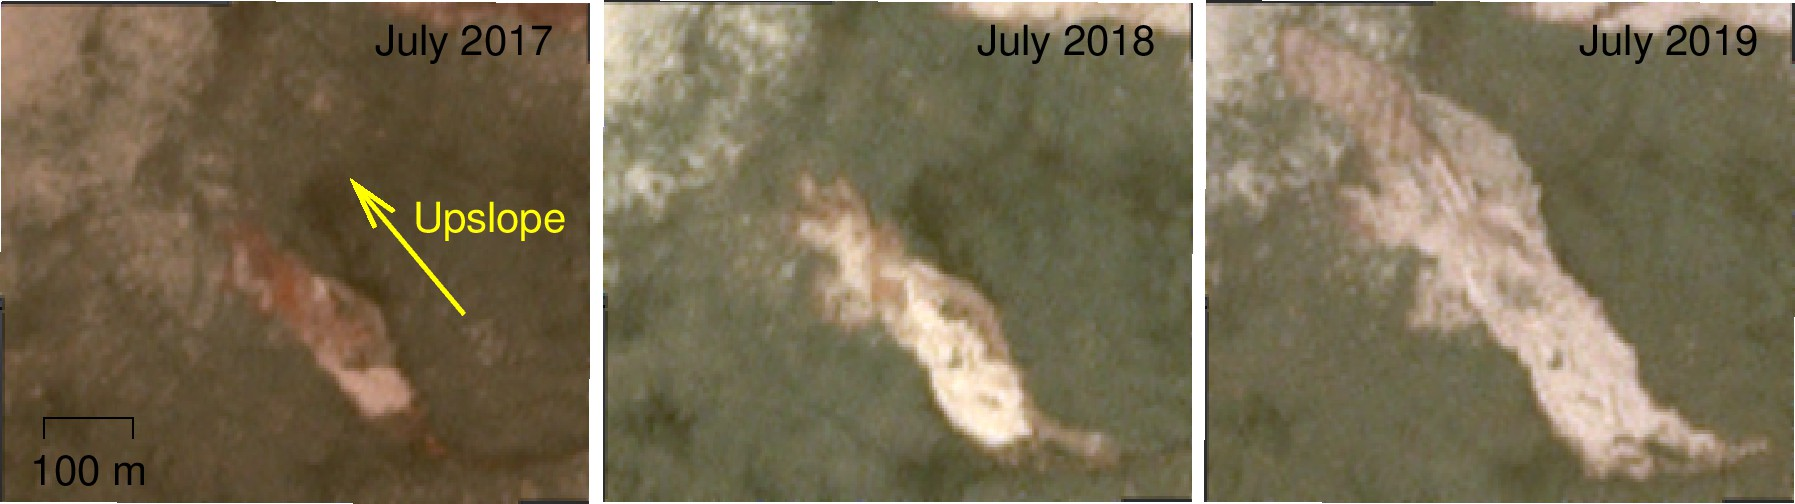
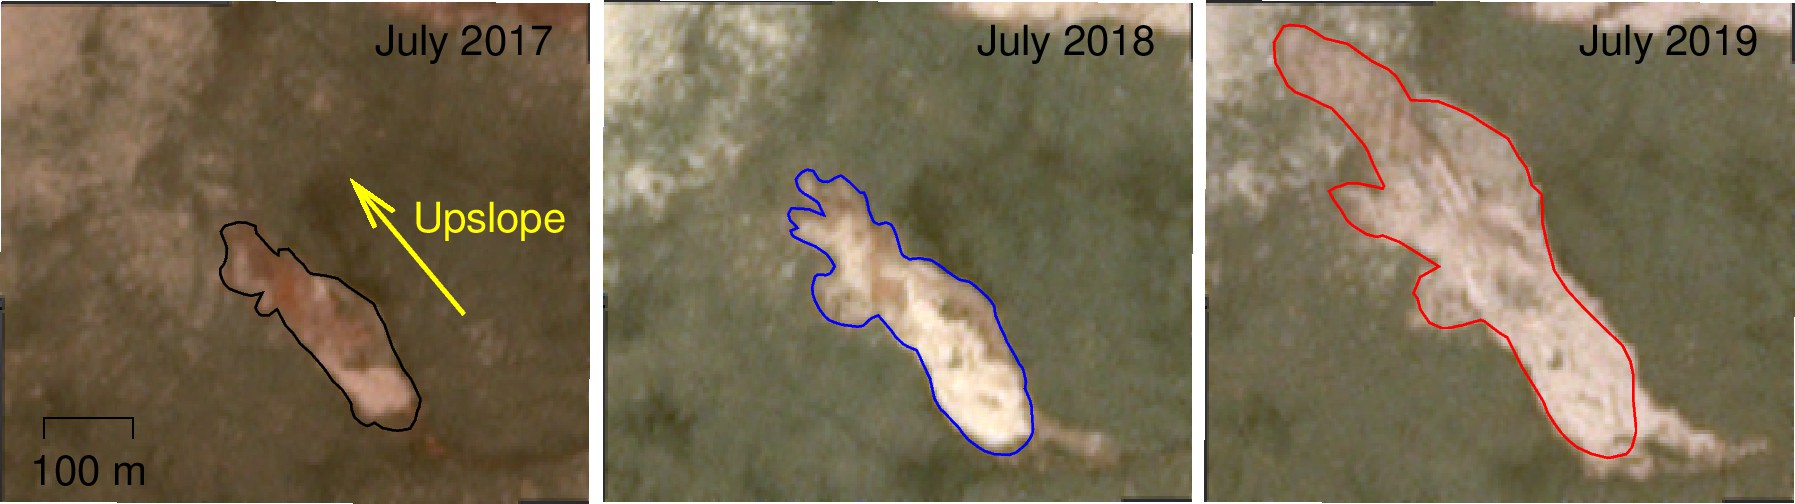
revised until discussion

diff --git a/polygon_based_rts_changeDet.tex b/polygon_based_rts_changeDet.tex
@@ -203,7 +203,7 @@ Combining deep learning algorithms and change detection methods can automaticall
 Previous studies show that deep learning has dramatically improved image processing technology \citep{leCun2015Deep} and can delineate RTS boundaries on Planet images taken in 2018 with high accuracies \citep{huang2020using}. 
 Therefore, we can apply deep learning algorithms to multi-temporal Planet CubeSat images then delineate RTS boundaries in different years.
 By applying %polygon-based 
-change detection techniques to these multi-temporal RTS boundaries, we can quantify the dynamics of these RTSs and obtain their retreat distances. 
+change detection techniques to these multi-temporal RTS boundaries, we can quantify the dynamics of these RTSs and obtain their retreat distances as well as areas. 
 
 %Evolution of retrogressive thaw slumps is poor quantified in most permafrost areas. 
 %NO study on mapping RTS development automatically. 
@@ -231,7 +231,7 @@ Our study area is the Beiluhe region ($92.50^\circ$E to $93.51^\circ$E, $34.69^\
 The elevation is between 4418 and 5320 m; the mean annual air temperature is \SI{-3.8}{\celsius}; the annual precipitation is around 300 mm  \citep{luo_thermokarst_2015}.
 It is underlain by ice-rich permafrost with thickness ranging from 20 to 80 m: 70\% and 20\% of this region contain volumetric ice content greater than 30\% and 50\%, respectively \citep{zhou_geocryology_2000, luo_thermokarst_2015}; 
 the type of ground ice is mainly massive ice resulting from repeated segregation \citep{guodong1983mechanism}. 
-The active layer thickness and mean annual ground temperature ($\sim$15 m) range from 1.5 to 2.0 m and \SI{-2.0} to \SI{-0.5}{\celsius}, respectively \citep{zhou_geocryology_2000, wu2010changes, luo_thermokarst_2015,  wu2015changes}. 
+The active layer thickness and mean annual ground temperature (at the depth of $\sim$15 m) range from 1.5 to 2.0 m and \SI{-2.0} to \SI{-0.5}{\celsius}, respectively \citep{zhou_geocryology_2000, wu2010changes, luo_thermokarst_2015,  wu2015changes}. 
 As reported by \cite{luo2019recent}, more than 200 RTSs initiated in or before 2016 in this region,  and their number and affected areas increased dramatically in the past decade. 
 Most of the RTSs are clustered in the northwestern part of this area and located on gentle slopes \citep{huang2020using}.
 For example, an RTS developed toward upslope from 2017 to 2019, and the development is captured by Planet CubeSat as shown in Fig. \ref{fig_multi_rts_image_studyarea}b to d. 
@@ -246,7 +246,7 @@ For example, an RTS developed toward upslope from 2017 to 2019, and the developm
 %[ht]
 \begin{figure} 
 	\centering
-	\includegraphics[width=14cm]{figs/rts_multi_images_study_area_v2_trim.jpg}
+	\includegraphics[width=14cm]{figs/rts_multi_images_study_area_v4_trim.jpg}
 	\caption{The study area and development of a retrogressive thaw slump (RTS). The red 
 	%and black 
 	rectangle in (a) shows the extent of our study area
@@ -258,10 +258,10 @@ For example, an RTS developed toward upslope from 2017 to 2019, and the developm
 
 %Data
 The core data are images taken in July 2017, 2018, and 2019 by the PlanetScope satellites. We investigated RTS after 2017 because images from these satellites are only available after 2017 in our study area.  
-In July, vegetation reaches its maximum coverage, and active RTSs are in a rapid stage of thawing, making it relatively easy to identify to RTSs.
+In July, vegetation reaches its maximum coverage, and active RTSs are in a rapid stage of thawing, making it relatively easy to identify RTSs.
 These images have four bands (blue, green, red, and near-infrared) with a spatial resolution of 3 m, and each of them covers an approximate area of 10 km by 30 km.
 Table \ref{table_image_list} lists the numbers and acquisition dates of these images. 
-Because of the variations of cloud cover and image coverage, the image counts in different years are different.
+Because of the variations of cloud cover and image coverage, the image counts in different years are various.
 They were downloaded from the Planet website (\url{www.planet.com}) or through a python package (\url{pypi.org/project/planet}) for Planet's public API under its Education and Research Program \citep{team2018planet}. 
 The product level of images is ``Analytic\_SR'', which means that they had been orthorectified with a positional accuracy of 10 m and the pixel values represent surface reflectance by using a bit depth of 16 bits. 
 
@@ -311,16 +311,18 @@ Year & Acquisition dates & Number  \\
 	\label{fig_flowchart}
 \end{figure}
 
- As illustrated in Fig. \ref{fig_flowchart}, the major procedures of the automatic method for quantifying RTS evolution include pre-processing of Planet images, automatic delineation of RTS, and automatic quantification of their development. 
-Manual delineation of RTSs is necessary when data are not available to train DeepLabv3+, a supervised learning algorithm, because multi-temporal RTS boundaries are one of the key components of training data.
-The automatic quantification accepts multi-temporal RTS boundaries, either derived from automatic or manual delineation, and produces annual retreat distances and areas of each RTS. 
+ As illustrated in Fig. \ref{fig_flowchart}, the major procedures of the automatic method for quantifying RTS evolution include pre-processing of Planet images, automatic delineation of RTSs, and automatic quantification of their development. 
+Manual delineation of RTSs is necessary when data are not available to train DeepLabv3+, which is a supervised learning algorithm. %, because multi-temporal RTS boundaries are one of the key components of training data.
+The automatic quantification accepts multi-temporal RTS boundaries %, either derived from automatic or manual delineation, 
+and produces annual retreat distances and areas of each RTS. 
 
 
 \subsection{Pre-processing of multi-temporal images}
 \label{sec_preprocessing}
 
-We pre-processed Planet CubeSat images to fulfill the requirements of DeepLabv3+ as well as manual delineation and to reduce the offset between multi-temporal images. 
-For the images of each year, we pre-processed them by band extracting, stretching, sharpening, and mosaicking then obtained a mosaic image covering the study area. 
+We pre-processed Planet CubeSat images to fulfill the input requirements of DeepLabv3+ % as well as manual delineation
+and to reduce the offset between multi-temporal images. 
+For the images taken each year, we pre-processed them by band extracting, stretching, sharpening, and mosaicking then obtained a mosaic image covering the study area. 
 %Co-registration
 To increase the relative positional accuracy (reduce the offset between multi-temporal images) among multi-temporal images, we apply co-registration to the three mosaic images from 2017 to 2019. 
 Firstly, we chose the well-pre-processed image \citep{huang2020using} as the reference image. 
@@ -337,7 +339,8 @@ As shown in Table S1 in the Supplementary Materials, the relative positional acc
 \label{sec_manu_delineating}
 
 We manually delineated RTS boundaries on multi-temporal images throughout the study area in QGIS (version 2.18.14, \url{qgis.org}). 
-Based on the square grids and mapping results presented by \cite{huang2020using}, we delineated RTS boundaries on Planet images taken in all the three years as accurately as possible. 
+Based on 1410 square grids covering the entire area, % and mapping results presented by \cite{huang2020using}, 
+we delineated RTS boundaries on Planet images taken in all the three years as accurately as possible. 
 The error (uncertainty) of manual delineation on Planet images is around one pixel, that is, 3 m. 
 After the delineation, we obtained 338, 342, and 344 RTS boundaries on images from 2017 to 2019. 
 The RTS numbers in this paper are larger than the one presented in \cite{huang2020using} by around 80 because the multi-temporal images with better vegetation coverage enable us to identify many small and subtle RTSs. 
@@ -375,7 +378,7 @@ The steps of automatic delineation include preparing training data, training a D
 We derived training data that can be input into DeepLabv3+ directly from training polygons and selected Planet images.
 The training polygons consist of parts of the ground truths (i.e., positive training polygons) and polygons covering non-RTS regions (termed as negative training polygons) in different years.
 These negative training polygons are necessary for distinguishing land covers (e.g., bare land) that are similar to RTSs but need ground information or some initial tests to generate them. 
-Based on our initial test, we drew 78 negative training polygons and duplicated them to different years if necessary. 
+Based on our initial test, we drew 78 negative training polygons on the 2019 mosaic image and duplicated them to 2017 and 2018 images. 
 We chose all the ground truths as well as negative training polygons for training. 
 To assess the capability and generalization of DeepLabv3+ when applied to multi-temporal Planet images, we conducted experiments using (1) ground truths of 2017 and 2018 as well as 78 negative training polygons for training and (2) all ground truths but without negative training polygons.
 %We considered all the ground truths as positive training polygons but did not include any negative training polygons. 
@@ -445,9 +448,9 @@ IOU(A,B)_{t}=area(A \cap B)/area(A \cup B)
 where \emph{A} is a mapped polygon in the specific year, \emph{B} is the union, and \emph{t} is the time. 
 Due to the expanding dynamics of RTSs, the time-IOU of an active RTS should monotonically increase over time. 
 If an RTS is already stabilized, its time-IOU will remain the same over time. 
-Considering the delineation error (e.g., the RTS boundaries in different years at non-headwall parts do not exactly overlap each other as shown in Figs. \ref{fig_rts_expanding} and \ref{fig_rts_change_det}), a relaxed threshold of $-0.1$ was set to determine if the time-IOU of an RTS is monotonically increasing, that is, if all the differences ($IOU_{next\_year}-IOU_{year}$) are greater than $-0.1$.% we consider the time-IOU is monotonically increasing. 
+Considering the delineation error (e.g., the RTS boundaries in different years at non-headwall parts do not exactly overlap each other as shown in Figs. \ref{fig_rts_expanding} and \ref{fig_rts_change_det}), a relaxed threshold of $-0.1$ was set to determine if the time-IOU of an RTS is monotonically increasing, that is, if all the differences ($IOU_{t}-IOU_{t-1}$) are greater than $-0.1$. % we consider the time-IOU is monotonically increasing. 
 Thirdly, because most of the RTSs in the Beiluhe region initiated in or before 2016,
-we can assume that at a specific location where an RTS emerged, it presents at least two mapped polygons from 2017 to 2019 with time consecutiveness, referred to as the ``two-polygon assumption''. 
+we can assume that at a specific location where an RTS emerged, it presents at least two mapped polygons from 2017 to 2019 with time consecutiveness, referred as the ``two-polygon assumption''. 
 Lastly, we removed mapped polygons in a location that does not satisfy the two-polygon assumption or the time-IOU is not monotonically increasing.
  
 %[ht]
@@ -507,8 +510,8 @@ The main steps include polygon-based change detection, removing false changes, a
 	\label{fig_rts_change_det}
 \end{figure}
 
-To obtain the annual RTS changes, we conducted change detection for RTS boundaries between one year and its previous year.%, that is, comparing 2018 with 2017 and 2019 with 2018. 
- As indicated in Equation \ref{equ_polygon_diff}, for a specific location containing RTS polygons in different years, a polygon in a given year $(t)$ minus the one in the previous year should result in expanding regions. 
+To obtain the annual RTS changes, we conducted change detection for RTS boundaries between one year and its previous year. %, that is, comparing 2018 with 2017 and 2019 with 2018. 
+ As indicated in Equation \ref{equ_polygon_diff}, for a specific location having RTS polygons in different years, a polygon in a given year $(t)$ minus the one in the previous year should result in expanding regions. 
 We used the ``difference'' function in Shapely (\url{https://pypi.org/project/Shapely}) to implement the subtraction in Equation \ref{equ_polygon_diff}. 
 The expanding regions were represented as geometries with type of ``Polygon'' or ``multiPolygon'' in Shapely.
 \begin{equation}
@@ -568,7 +571,7 @@ where $H$ is elevation, $\Delta H$ is the elevation difference, and $C_{t}$ is a
 We used the 30 m digital elevation model (DEM) from the Shuttle Radar Topography Mission (SRTM) \citep{farr2007shuttle} for calculating the elevation difference. 
 For a change polygon or RTS polygon, we chose the mean of elevation within it as its elevation. 
 %minimum_retreat_distance = 6
-Lastly, we set a threshold of 6 m for retreat distance (see section \ref{sec_cal_retreat_dis}) to remove change polygons with the consideration of Planet image resolution and delineation errors. 
+Lastly, we set a threshold of 6 m for retreat distance (see section \ref{sec_cal_retreat_dis}) to remove change polygons with the consideration of image resolution and delineation uncertainties. 
 %minimum_change_circularity = 0 (no effect )
 
 
@@ -585,10 +588,10 @@ Therefore, for each RTS, we calculate its retreat distance at time $t$ as equati
 R_t = max\{D_{C_t^1},D_{C_t^2},...,D_{C_t^n}\}
 \label{equ_retreat_dis}
 \end{equation}
-where $R_t$ is the retreat distance at time $t$, $D$ is the diameter of the maximum medial circle of a change polygon ($C_t^n$), and $n$ is its number.
+where $R_t$ is the retreat distance at time $t$, $D$ is the diameter of the maximum medial circle of a change polygon ($C_t^n$), and $n$ is the number of change polygons of the RTS.
 
 
-However, due to the irregular and complex shapes of the change polygons, medial circles may underestimate the maximum retreat distance and cannot handle multiple retreat branches as well as ones with an extremely elongated shape. 
+However, due to the irregular and complex shapes of the change polygons, medial circles may underestimate the maximum retreat distance and cannot handle multiple retreat branches as well as ones with an extremely elongated shape.
 To assess the underestimation and provide supplement information of retreat distance, for each change polygon, we drew two lines crossing the center of its maximum medial circle and calculated the distance based on these intersected line segments, as illustrated in Fig. \ref{fig_retreat_dis}c. 
 The directions of the two lines are determined by (1) the direction of the maximum elevation difference and (2) from the centroid of the corresponding old polygon (i.e., $P_{t-1}$ in equation \ref{equ_polygon_diff}) to the center of the circle. 
 The retreat distance based on the line segments tends to be overestimated but can provide additional information of automatic calculation such as confidence because their accuracies are highly sensitive to the elevation accuracy and the shape of the RTS boundary in the previous year (e.g., the old polygon in Fig. \ref{fig_retreat_dis}c). 
@@ -734,9 +737,9 @@ However, the number of true positives reduces by around 40, resulting in the inc
 The reason is that some of the mapped polygons mismatch RTS boundaries and cannot represent the RTS development over time, leading to violation of the assumption of RTS dynamic features. 
  
 %compared with the ones including negative training polygons 
-The assumption of RTS dynamic features can contribute more to the improvement of mapping accuracies if we exclude negative training polygons when training the network. 
+The assumption of RTS dynamic features can contribute more to the improvement of mapping accuracies if we exclude negative training polygons. % when training the network. 
 As shown in Table S3, the F1 scores improve significantly after applying the RTS dynamic features, as that the FP reduces from around 1500 to less than 200; meanwhile, the AP values (Fig. S3) improve by around 0.2 in different years. 
-This is because excluding negative training polygons tends to produce more false positives but they seldom can meet the criteria of the RTS dynamic feature.  
+This is because excluding negative training polygons tends to produce more false positives but they seldomly can meet the criteria of the RTS dynamic feature.  
 %The reason is that include: (1) the number of false positives reduces by around 70, but the number of true positives also reduces by around 40, resulting in an almost unchanged F1 score 
 %and (2) including the negative training polygons %used in \cite{huang2020using}
 % has depressed the population of false positives. 
@@ -779,7 +782,7 @@ In the Beiluhe region, most RTSs expanded from 2017 to 2019 with an average expa
 From 2017 to 2018, 284 RTSs expanded, among them, 96 ones with expanding area are greater than 0.2 ha; while from 2018 to 2019, 259 RTSs expanded, and 84 of them expanded by greater than 0.2 ha.
 The maximum expanding areas are 1.47 ha and 2.53 ha for 2017 vs 2018 and 2018 vs 2019, respectively. 
 Regarding the percentage, 83\% of them expanded from 2017 to 2018 and 76\% from 2018 to 2019. 
-As shown in Fig. S4, around half of the RTSs only had one expanding branches, while each of the remaining ones (152 for 2017 vs 2018 and 117 for 2018 vs 2019)  had two or more expanding branches. 
+As shown in Fig. S4, around half of the RTSs only had one expanding branch, while each of the remaining ones (152 for 2017 vs 2018 and 117 for 2018 vs 2019)  had two or more expanding branches. 
 
 %How to define an RTS was expanding?
 %How many RTS have expanding? 
@@ -843,8 +846,8 @@ However, standard deviations of around 40\% of them are quite large ($>$10 m), i
 \label{sec_rts_change_auto_mapping}
 
 As shown in Fig. S7, the average values of expanding areas and retreat distances of RTS boundaries derived based on automatic delineation are similar to the ones from manual delineation (section \ref{sec_rts_change_area} and \ref{sec_rts_retreat_distance}).
-In Fig. S7, the average expanding areas are 0.25 ha (2018 vs 2017) and 0.24 ha (2019 vs 2018), and the mean retreat distances are 21.5 m (2018 vs 2017)  and 21.6 m (2019 vs 2018). 
-However, the total number of expanding RTSs is smaller at 236 (2018 vs 2017) and 233 (2019 vs 2018), respectively, due to the false negatives in the automatic delineation results.
+In Fig. S7, the average expanding areas are 0.25 ha (2017 vs 2018) and 0.24 ha (2018 vs 2019), and the mean retreat distances are 21.5 m (2017 vs 2018)  and 21.6 m (2018 vs 2019). 
+However, the total number of expanding RTSs is smaller at 236 (2017 vs 2018) and 233 (2018 vs 2019), respectively, due to the false negatives in the automatic delineation results.
 
  
 
